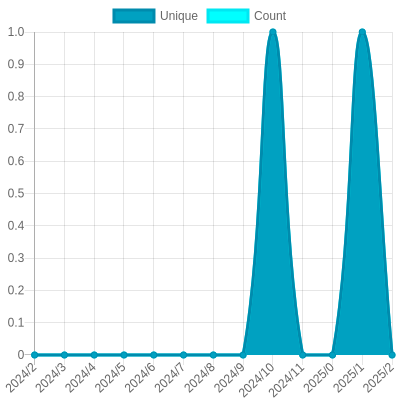
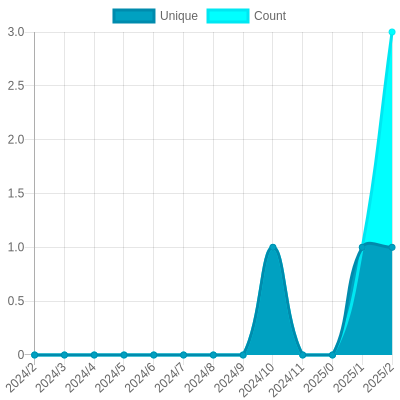
Update views

diff --git a/README.md b/README.md
@@ -26,7 +26,7 @@ The project created and maintained by [gayanvoice](https://github.com/gayanvoice
 			</a>
 		</td>
 		<td>
-			2024/3/13 12:32 AM UTC
+			2024/3/14 12:32 AM UTC
 		</td>
 		<td>
 			1
@@ -42,7 +42,7 @@ The project created and maintained by [gayanvoice](https://github.com/gayanvoice
 			</a>
 		</td>
 		<td>
-			2024/3/13 12:32 AM UTC
+			2024/3/14 12:32 AM UTC
 		</td>
 		<td>
 			0
@@ -58,7 +58,7 @@ The project created and maintained by [gayanvoice](https://github.com/gayanvoice
 			</a>
 		</td>
 		<td>
-			2024/3/13 12:33 AM UTC
+			2024/3/14 12:32 AM UTC
 		</td>
 		<td>
 			2
@@ -69,7 +69,7 @@ The project created and maintained by [gayanvoice](https://github.com/gayanvoice
 	</tr>
 </table>
 
-<small><i>Last updated on 2024/3/15 6:10 PM UTC</i></small>
+<small><i>Last updated on 2024/3/16 12:31 AM UTC</i></small>
 
 ## ✂Copy and 📋 Paste
 ### Total Views Badge

diff --git a/readme/631992812/year.md b/readme/631992812/year.md
@@ -23,10 +23,10 @@
 			<code>2024/3/1</code>
 		</td>
 		<td>
-			<code>0</code>
+			<code>1</code>
 		</td>
 		<td>
-			<code>0</code>
+			<code>3</code>
 		</td>
 	</tr>
 	<tr>
@@ -164,7 +164,7 @@
 </table>
 
 </details>
-<small><i>Last updated on 2024/3/15 6:10 PM UTC</i></small>
+<small><i>Last updated on 2024/3/16 12:31 AM UTC</i></small>
 
 ## ✂Copy and 📋 Paste
 ### SVG Badge

diff --git a/readme/655957517/year.md b/readme/655957517/year.md
@@ -164,7 +164,7 @@
 </table>
 
 </details>
-<small><i>Last updated on 2024/3/15 6:10 PM UTC</i></small>
+<small><i>Last updated on 2024/3/16 12:31 AM UTC</i></small>
 
 ## ✂Copy and 📋 Paste
 ### SVG Badge

diff --git a/readme/714185209/year.md b/readme/714185209/year.md
@@ -164,7 +164,7 @@
 </table>
 
 </details>
-<small><i>Last updated on 2024/3/15 6:10 PM UTC</i></small>
+<small><i>Last updated on 2024/3/16 12:31 AM UTC</i></small>
 
 ## ✂Copy and 📋 Paste
 ### SVG Badge
